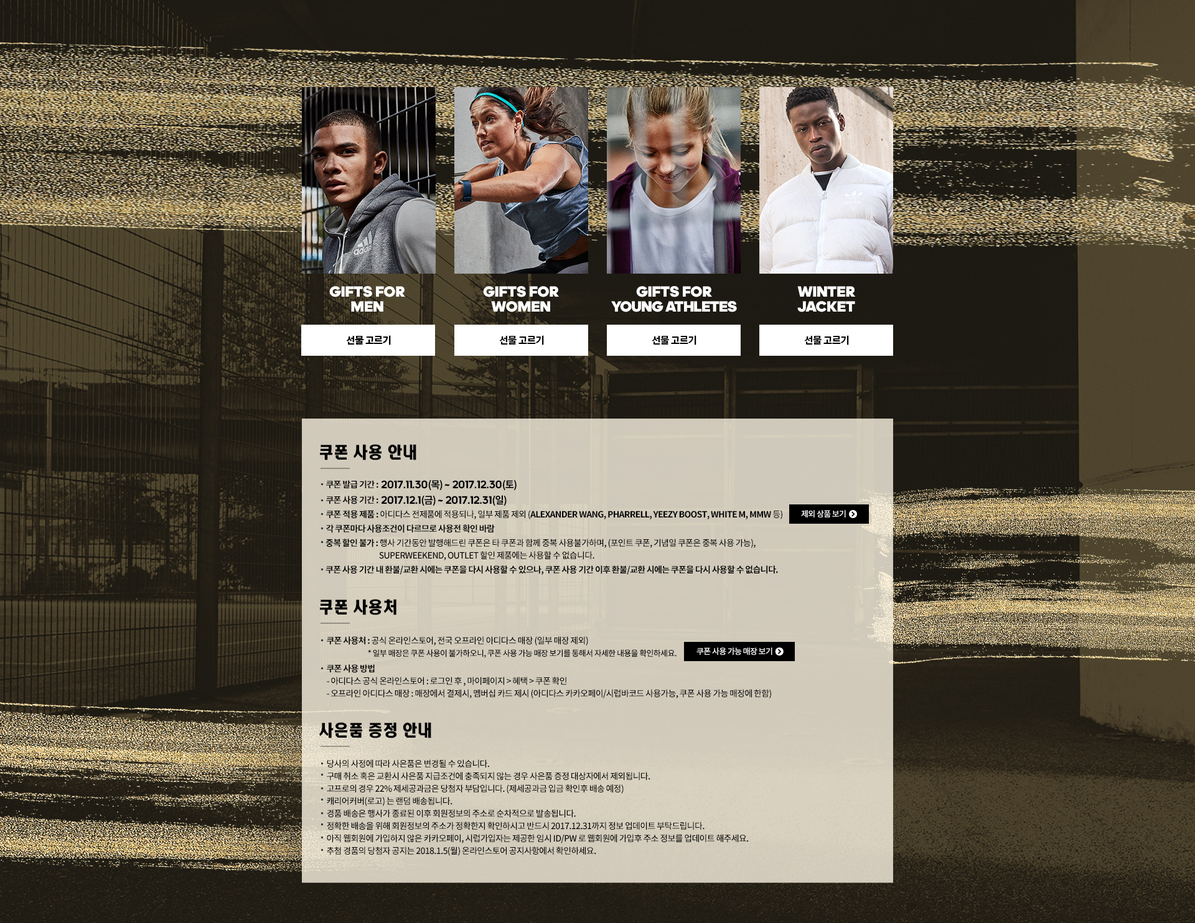
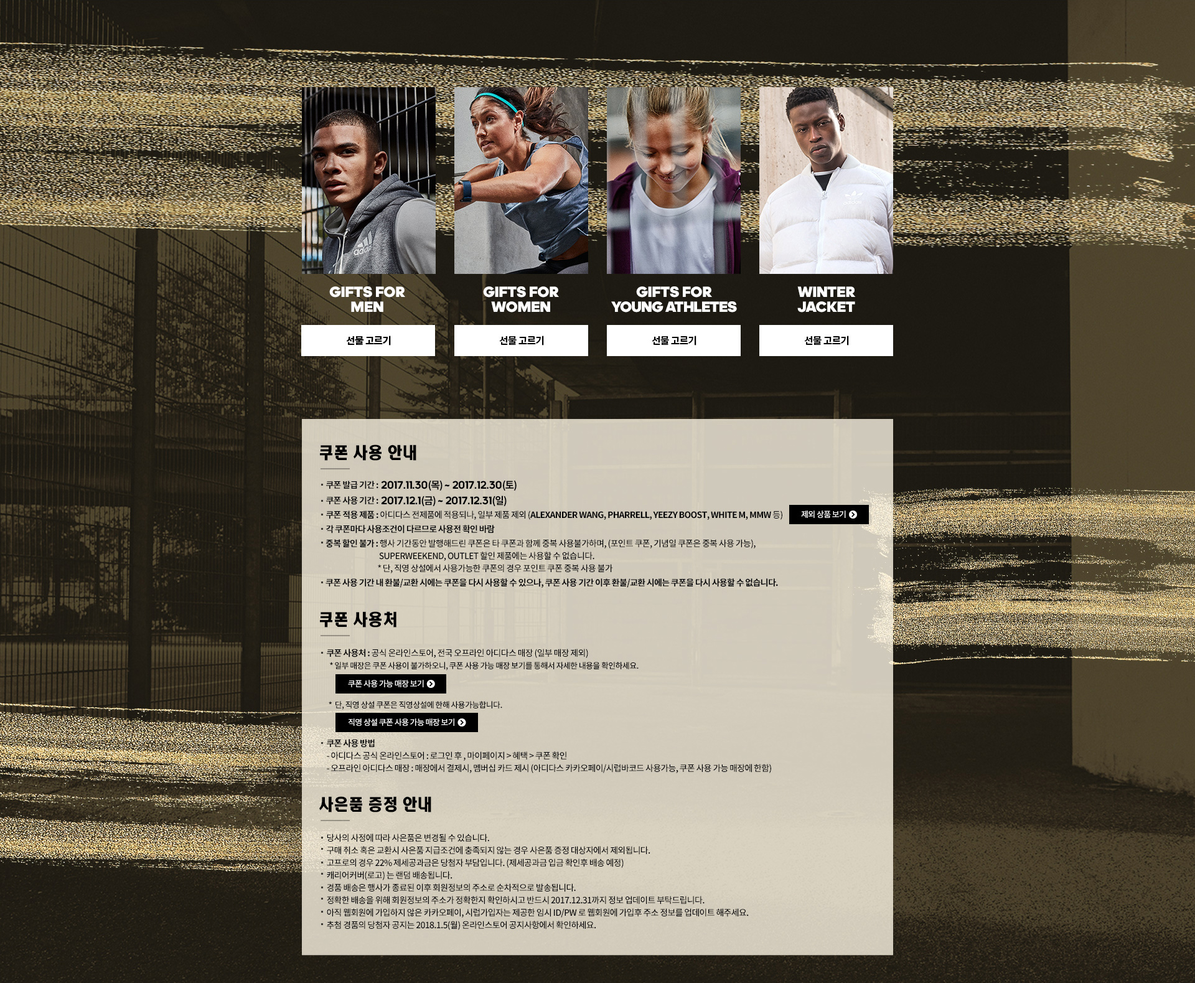
아디다스 홀리데이

diff --git a/app/html/adidas/event/holiday/201711/index.html b/app/html/adidas/event/holiday/201711/index.html
@@ -990,7 +990,7 @@
 				}
 				.holiday_201711_wrap{
 					position: relative;
-					height: 3704px;
+					height: 3798px;
 				}
 				#holiday_201711{
 					height: 3706px;
@@ -1062,17 +1062,23 @@
 					</div>
 					<div class="box" style="height:506px;"><img src="http://image.adidas.co.kr/images/adidas/event/holiday/201711/4.jpg" alt="혜택2"></div>
 
-					<!-- 171128 -->
-					<div class="box" style="height:430px;">
+					<!-- 171201 -->
+					<div class="box kakaoevent" style="height:430px;">
 						<img src="http://image.adidas.co.kr/images/adidas/event/holiday/201711/5.jpg" alt="카카오페이지" usemap="#map2">
 						<map name="map2" id="map2">
 							<area shape="rect" coords="926,274,1300,336" href="#" alt="">
 						</map>
 					</div>
-					<!-- 171128 end-->
+					<div class="box kakaoevent" style="height:430px; display:none;">
+						<img src="http://image.adidas.co.kr/images/adidas/event/holiday/201711/5_after.jpg" alt="카카오페이지" usemap="#map22" >
+						<map name="map22" id="map22">
+							<area shape="rect" coords="926,274,1300,336" href="javascript:void(0)" alt="">
+						</map>
+					</div>
+					<!-- 171201 end-->
 
-					<div class="box" style="height:1482px;">
-						<img src="http://image.adidas.co.kr/images/adidas/event/holiday/201711/6.jpg" alt="" usemap="#map3">
+					<div class="box" style="height:1570px;">
+						<img src="/images/adidas/event/holiday/201711/6.jpg?v=1" alt="" usemap="#map3">
 						<map name="map3" id="map3">
 							<area shape="rect" coords="484,142,702,574" href="http://shop.adidas.co.kr/PF010103.action?S_CTGR_CD=01001&S_LEVEL=3&S_ORDER_BY=1&CATG_CHK=&CATG_CLK=Y" alt="남자선물">
 							<area shape="rect" coords="730,142,946,574" href="http://shop.adidas.co.kr/PF010103.action?S_CTGR_CD=01002&S_LEVEL=4&S_ORDER_BY=1&CATG_CHK=&CATG_CLK=Y" alt="여자">
@@ -1080,7 +1086,8 @@
 							<area shape="rect" coords="1220,142,1438,574" href="http://shop.adidas.co.kr/PF010103.action?S_CTGR_CD=01004&S_LEVEL=6&S_ORDER_BY=1&CATG_CHK=2&CATG_CLK=Y" alt="윈터자켓">
 
 							<area shape="rect" coords="1269,813,1398,843" href="javascript:void(0)" alt="" class="modal-popup-click" data-modalpop-click="fade-popup" alt="제외상품보기">
-							<area shape="rect" coords="1101,1033,1278,1063" href="http://shop.adidas.co.kr/upload/storelist/index.html?adidasHoliday201711" alt="쿠폰사용가능매장">
+							<area shape="rect" coords="538,1084,768,1116" href="http://shop.adidas.co.kr/upload/storelist/index.html?adidasHoliday201712" alt="쿠폰사용가능매장">
+							<area shape="rect" coords="538,1148,768,1180" href="http://shop.adidas.co.kr/upload/storelist/index.html?adidasHoliday201712_FO " alt="쿠폰사용가능매장">
 
 						</map>
 					</div>
